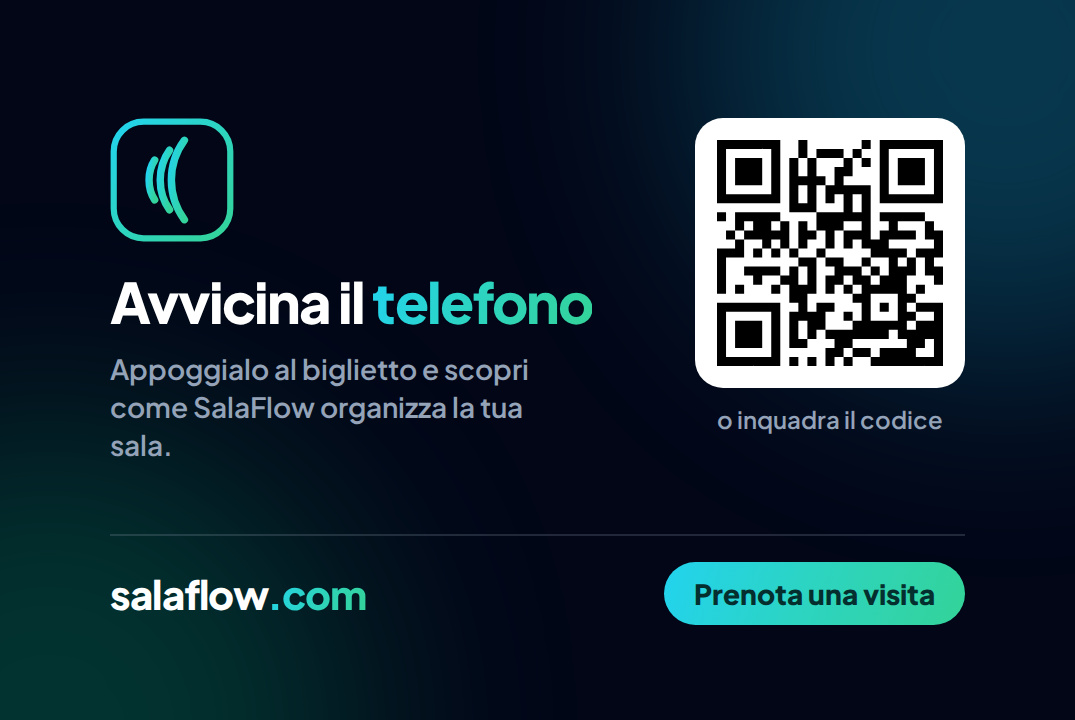
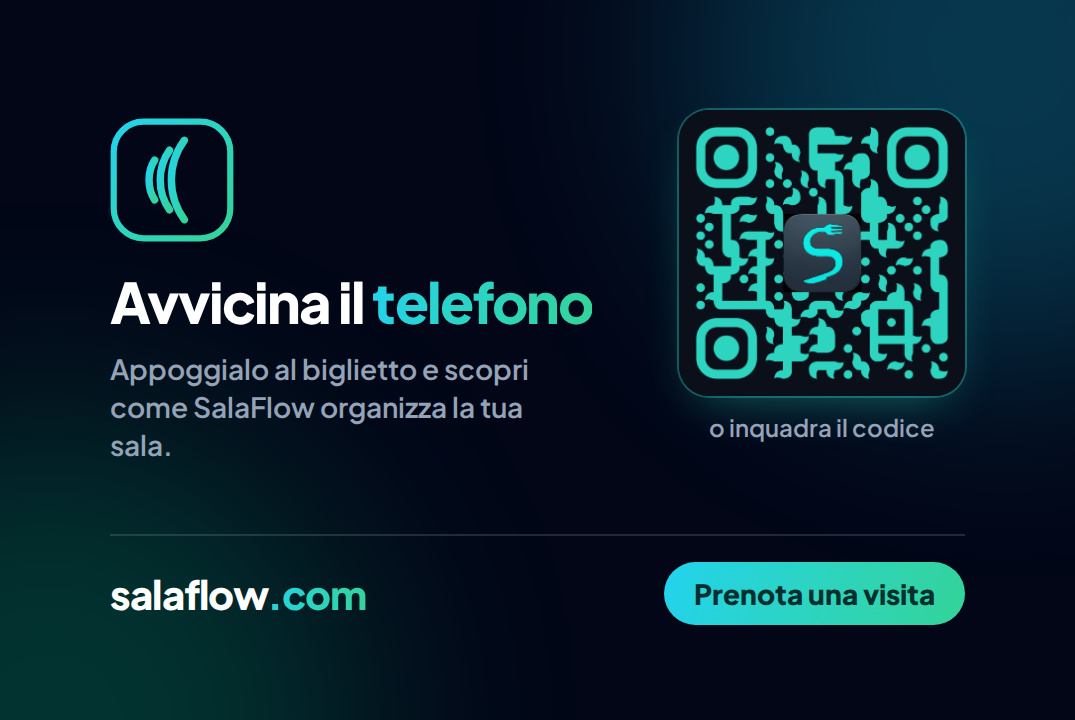
Biglietto NFC: QR personalizzato SalaFlow sul retro
Claude-Session: https://claude.ai/code/session_01Y5zZnfXneZ5h9R3SF6pnw9

Changed region(s): [[0.6447, 0.1528, 0.9209, 0.6111]]

diff --git a/stampa/sorgenti/biglietto.html b/stampa/sorgenti/biglietto.html
@@ -27,9 +27,9 @@ body{background:#888;font-family:PJS}
 #back .nfc{position:absolute;left:110px;top:118px;width:124px;height:124px}
 #back .tap{position:absolute;left:110px;top:272px;font-weight:800;font-size:56px;letter-spacing:-.035em;line-height:1.05;width:520px}
 #back .tapsub{position:absolute;left:110px;top:350px;font-weight:600;font-size:28px;color:#94a3b8;width:470px;line-height:1.35}
-#back .qrbox{position:absolute;right:110px;top:118px;width:270px;height:270px;padding:22px;border-radius:28px;background:#fff}
+#back .qrbox{position:absolute;right:110px;top:110px;width:286px;height:286px;border-radius:30px;overflow:hidden;background:#0b111c;box-shadow:0 0 0 2px rgba(45,212,191,.35),0 20px 50px -20px rgba(45,212,191,.45)}
 #back .qrbox img{width:100%;height:100%;display:block}
-#back .qrcap{position:absolute;right:110px;top:404px;width:270px;text-align:center;font-weight:600;font-size:24px;color:#94a3b8}
+#back .qrcap{position:absolute;right:110px;top:412px;width:286px;text-align:center;font-weight:600;font-size:24px;color:#94a3b8}
 #back .foot{position:absolute;left:110px;right:110px;bottom:95px;display:flex;justify-content:space-between;align-items:center;border-top:2px solid rgba(148,163,184,.22);padding-top:26px}
 #back .url{font-weight:800;font-size:40px;letter-spacing:-.02em}
 #back .cta{font-weight:800;font-size:28px;color:#042f2e;padding:14px 30px;border-radius:999px;background:linear-gradient(110deg,#22d3ee,#2dd4bf 50%,#34d399)}
@@ -57,7 +57,7 @@ body{background:#888;font-family:PJS}
   </svg>
   <div class="tap">Avvicina il <span class="gt">telefono</span></div>
   <div class="tapsub">Appoggialo al biglietto e scopri come SalaFlow organizza la tua sala.</div>
-  <div class="qrbox"><img src="qr.svg"></div>
+  <div class="qrbox"><img src="qr-salaflow.png"></div>
   <div class="qrcap">o inquadra il codice</div>
   <div class="foot"><span class="url">salaflow<span class="gt">.com</span></span><span class="cta">Prenota una visita</span></div>
 </div>
